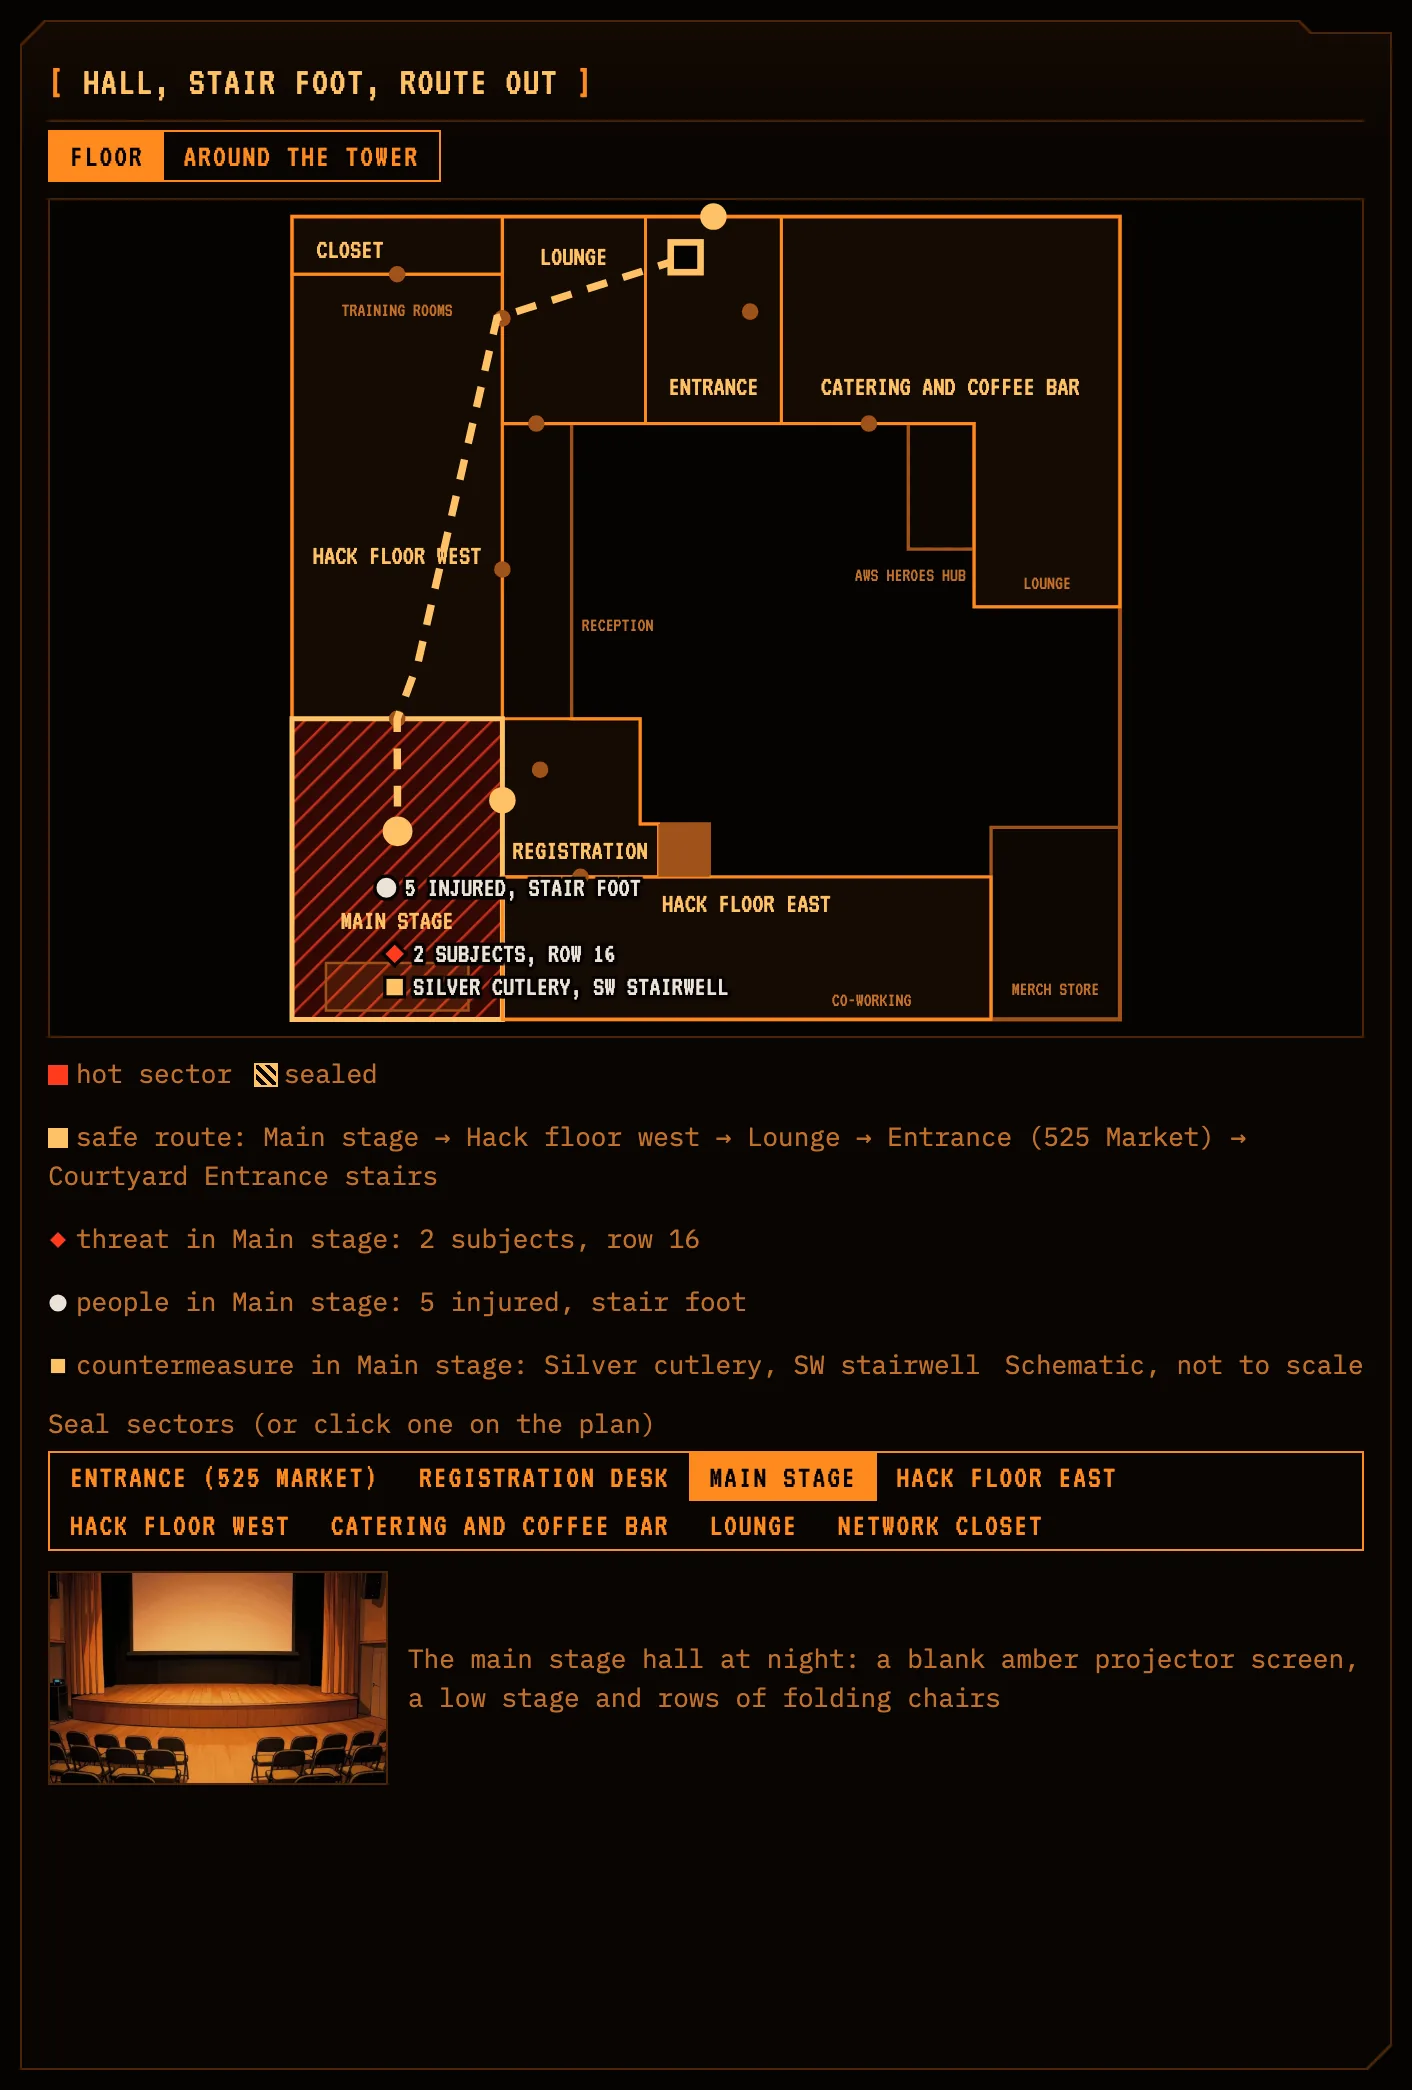
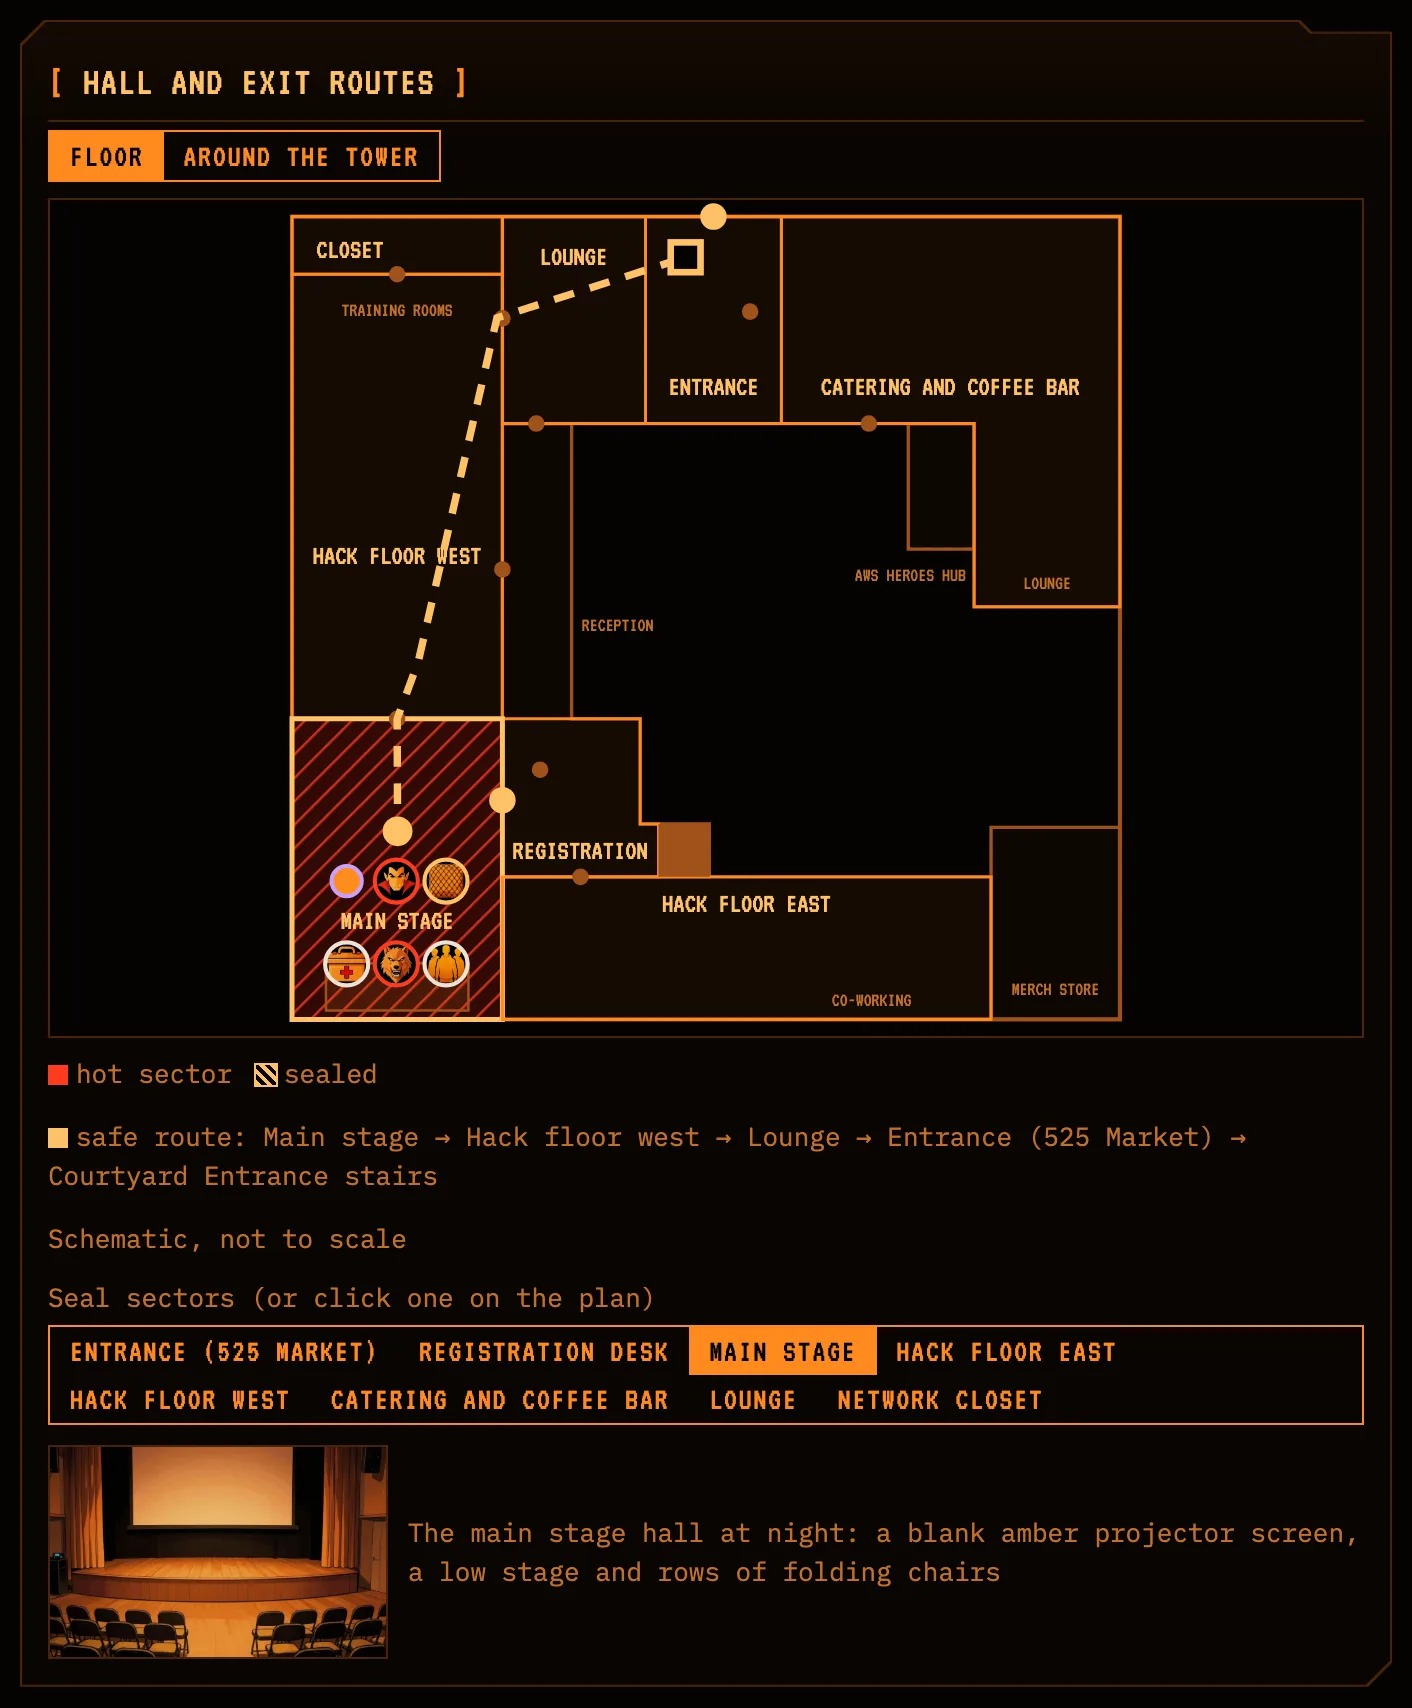
Show the FloorPlan's map tokens and the purple Next step in the component guide

diff --git a/docs/components.md b/docs/components.md
@@ -6,7 +6,7 @@ The model also writes each panel's title and asks for its size:
 - **Title:** at most 5 words that name the panel for this incident, such as "Who's still in the hall". `clean_manifest` drops a title over 6 words or 32 characters, and the panel then shows its own name. Screen readers hear the panel's own name first.
 - **Size:** hero for the one panel the incident turns on, compact for a supporting reading, else standard. After the floor plan's row, a hero panel takes 8 columns and a compact one 4. A hero floor plan without a CountermeasurePicker takes the full row.
 
-The screenshots come from live runs on 2026-10-28 at 1440x900, cropped to the panel: Nightfall step 20 for the full set, step 21 for the report panel, step 18 for a harmless station, Zombie Rush step 3 for the outdoor map, and `spooky-2026-9912` for the EMF gauge. "Reasoning" in the station header shows the model's reason for each panel.
+The screenshots come from live runs on 2026-10-28 at 1440x900, cropped to the panel: Nightfall step 20 for the full set, step 21 for the report panel and the floor plan, step 18 for a harmless station, Zombie Rush step 3 for the outdoor map, and `spooky-2026-9912` for the EMF gauge. "Reasoning" in the station header shows the model's reason for each panel.
 
 `clean_manifest` (`pipeline/library.py`) never adds a panel. It only drops panels that break a rule:
 - A harmless report loses CountermeasurePicker, CivilianTracker and FloorPlan.
@@ -56,24 +56,26 @@ The screenshots come from live runs on 2026-10-28 at 1440x900, cropped to the pa
 
 ### FloorPlan: floor and around the tower
 
-![FloorPlan on the floor view with markers, step 20](components/floor-plan.webp)
+![FloorPlan on the floor view with map markers, step 21](components/floor-plan.webp)
 ![FloorPlan around the tower, Zombie Rush step 3](components/floor-plan-area.webp)
 
-- **Shows:** two views. "Floor" is a schematic of the Loft (`data/map/floor.json`), with the hot sector in red, the sealed sectors hatched, the safe route out as a dotted line and the model's markers. "Around the tower" is the OpenStreetMap area (`data/map/area.geojson`), 150 meters around the tower, with a pin at the incident's outdoor spot, or at the venue when there is none. A scene image of the sector can sit under the plan.
+- **Shows:** two views. "Floor" is a schematic of the Loft (`data/map/floor.json`), with the hot sector in red, the sealed sectors hatched, the safe route out as a dotted line and small pictures of what is where (the markers below). "Around the tower" is the OpenStreetMap area (`data/map/area.geojson`), 150 meters around the tower, with a pin at the incident's outdoor spot, or at the venue when there is none. A scene image of the sector can sit under the plan.
 - **When:** a harmless report never gets it. The model sets the area view only when the report puts the incident outside the building.
 - **Route:** the model lists the sectors from where the people are to a way out. The page walks the path between them and goes round sealed sectors. When every way is sealed, the legend says which sectors block it. `clean_manifest` keeps only known sectors, and a route that stops inside the building goes on to the entrance.
 - **Powered by:** Parasail places the hot sector, the seals, the route, the view, the outdoor spot and the markers. The map data is static, and OpenStreetMap is credited under the area view.
 - **Operator:** switch between the views, and seal or unseal a sector by clicking it on the plan or in the "Seal sectors" list. The route redraws round the seals.
-- **Accessibility:** the views and the seal list are groups of pressed buttons. The plan has a label with the hot sector, and the legend spells out the route and every marker as text.
+- **Accessibility:** the views and the seal list are groups of pressed buttons. The plan has a label with the hot sector, and the legend spells out the route as text.
 
 #### Map markers
 
-The floor view in the screenshot above shows three markers: "2 subjects, row 16", "5 injured, stair foot" and "Silver cutlery, SW stairwell".
+The floor view in the screenshot above has six markers in the main stage, among them "Two vampires at row 16" (a threat) and "R2 and SW stairwell jammed" (a hazard).
 
-- **Shows:** up to 4 short notes pinned on the floor, each in its sector. The shape gives the kind: a diamond for a threat, a circle for people, a square for a countermeasure in place and a triangle for a hazard such as smoke or a blocked stair.
-- **When:** the prompt asks for facts the report gives, never the route and never an invented fact. `clean_manifest` keeps markers with a known sector and kind and cuts each label to its first 5 words that fit in 28 characters.
-- **Placement:** the model only names the sector. The page finds a spot inside it where the glyph and label overlap the sector names, the route, the exits and earlier markers the least.
-- **Accessibility:** the markers on the plan are hidden from screen readers. The legend lists each one as text, such as "threat in Main stage: 2 subjects, row 16".
+- **Shows:** up to 6 things from the report on the floor, each in its sector as a small round picture: a creature, people, an object or a countermeasure in place. The ring's color gives the kind: red for a threat, the text color for people, the highlight color for a countermeasure and the spook color for a hazard. Each marker's note shows only on hover or keyboard focus.
+- **When:** the prompt asks for things the report gives, never the route and never an invented fact. The model picks each picture from the map tokens in `shared/library.json` (vampire, werewolf, zombie, ghost, people, injured, crate, fog, fire and more) or the countermeasure's arsenal icon. When nothing fits, the marker is a dot in a color the model picks.
+- **Clean-up:** `clean_manifest` keeps markers with a known sector and kind, and cuts each label to its first 5 words that fit in 28 characters. An unknown picture becomes a dot, and an unknown color the first dot color.
+- **Powered by:** Parasail places the markers. The pictures are art manifest images (`token_<id>`), made by `pnpm art` like the rest.
+- **Placement:** the model only names the sector. The page finds a spot inside it where the picture overlaps the sector names, the route, the exits and earlier markers the least, nearest the sector's name among equal spots.
+- **Accessibility:** each marker is focusable, and its label names the kind, the sector and the note, such as "threat in Main stage: Two vampires at row 16".
 
 ### EntityCard
 
@@ -165,9 +167,9 @@ These parts are always there. The model doesn't choose them.
 
 - **Shows:** the full raw report, above the station. The heading names the scenario, the step, its time, the feed tier and "simulated" for a simulated report. When this tab picked a step other than the one on screen, it adds the step on screen.
 - **Evidence highlights:** the intake quotes the report's own words. Threat evidence is red with a solid underline, a harmless explanation is pale with a dotted one, and people at risk are amber with a dashed one. Hovering or focusing a highlight shows the model's reason, and a legend under the report names each kind shown. The pipeline keeps only quotes that occur in the report word for word (`clean_quotes`), and the marks show only on the report the station was built from.
-- **Step controls:** "Previous", a dropdown of every scenario's steps with each step's time and opening words, and "Next step" as the filled button. Only a later step of the same scenario builds on the operator's moves. Going back or elsewhere starts clean.
-- **Single incidents:** a menu of the standalone incidents with their feed tier and first words, plus "New incident…", which opens a box to paste any report. Compiling a pasted report needs live mode. From a single incident or a pasted report, "Back to Nightfall, step 20" (the scenario and step this tab was last on) replaces the step controls.
-- **Memory line:** "Reading this report with what the 1 earlier step of this scenario found." The intake reads the findings of up to 6 earlier steps, so it can follow a report that refers back to them.
+- **Step controls:** "Previous", a dropdown of every scenario's steps with each step's time and opening words, and "Next step" as a solid purple button. Only a later step of the same scenario builds on the operator's moves. Going back or elsewhere starts clean.
+- **Single incidents:** a menu of the standalone incidents with their feed tier and first words, plus "New incident…", which opens a box to paste any report. Compiling a pasted report needs live mode. From a single incident or a pasted report, a purple "Back to Nightfall, step 20" button (the scenario and step this tab was last on) replaces the step controls. Next step and Back share one purple in every theme, as the way through the story.
+- **Memory line:** "Reading this report with what the 2 earlier steps of this scenario found." The intake reads the findings of up to 6 earlier steps, so it can follow a report that refers back to them.
 - **Moves line:** "Building on your moves at 19:55:", then the countermeasure, the sealed sectors, how many people are out and each expert called, with the call's status. It shows when the station was built with the moves from the step before.
 - **Powered by:** the fixtures in `fixtures/` for the text. Parasail's intake for the quotes, and the server for the moves and the memory of earlier steps.
 - **Accessibility:** the controls stay focusable while a station builds and say so with `aria-disabled`, so stepping by keyboard takes one key per step. The menu closes on Escape. Highlights are focusable, and each reason is a tooltip linked to its highlight.
